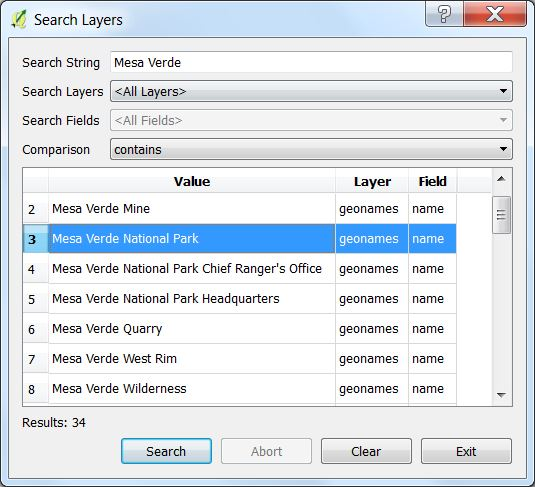
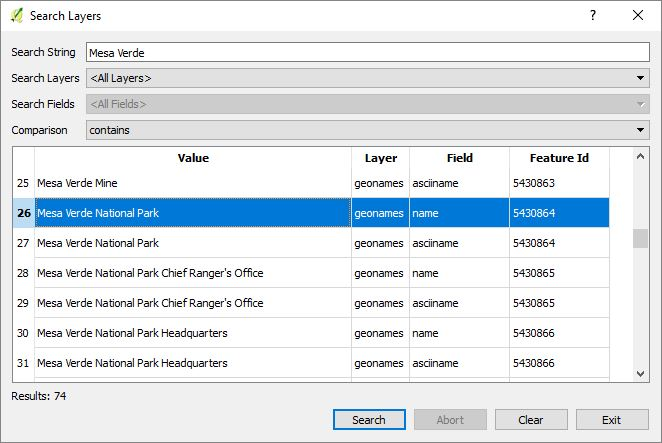
Added feature id to the results table.

diff --git a/searchDialog.py b/searchDialog.py
@@ -31,9 +31,9 @@ class LayerSearchDialog(QDialog, FORM_CLASS):
         self.layerListComboBox.activated.connect(self.layerSelected)
         self.searchFieldComboBox.addItems(['<All Fields>'])
         self.maxResults = 1500
-        self.resultsTable.setColumnCount(3)
+        self.resultsTable.setColumnCount(4)
         self.resultsTable.setSortingEnabled(False)
-        self.resultsTable.setHorizontalHeaderLabels(['Value','Layer','Field'])
+        self.resultsTable.setHorizontalHeaderLabels(['Value','Layer','Field','Feature Id'])
         self.resultsTable.setSelectionBehavior(QAbstractItemView.SelectRows)
         self.comparisonComboBox.addItems(['=','contains','begins with'])
         self.resultsTable.itemSelectionChanged.connect(self.select_feature)
@@ -210,6 +210,7 @@ class LayerSearchDialog(QDialog, FORM_CLASS):
         self.resultsTable.setItem(self.found, 0, QTableWidgetItem(value))
         self.resultsTable.setItem(self.found, 1, QTableWidgetItem(layer.name()))
         self.resultsTable.setItem(self.found, 2, QTableWidgetItem(attrname))
+        self.resultsTable.setItem(self.found, 3, QTableWidgetItem(str(feature.id())))
         self.found += 1        
             
     def showErrorMessage(self, message):
